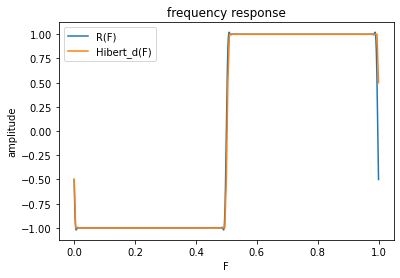
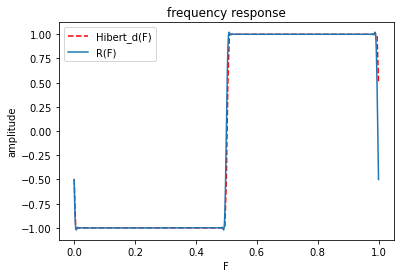
upload file

Changed region(s): [[0.18, 0.3453, 0.57, 0.8345], [0.57, 0.1151, 0.96, 0.3165], [0.15, 0.1151, 0.39, 0.2014]]

diff --git a/hw2/hw2_R10945004.py b/hw2/hw2_R10945004.py
@@ -62,9 +62,10 @@ RF = 0
 for n in range(len(rn)):
     RF += rn[n]*np.exp(-2j*np.pi*F*(n-k-1))
 RF = np.array(RF)
+
+plt.plot(N,H_d.imag,'r--')
 plt.plot(F,RF.imag)
-plt.plot(N,H_d.imag)
-plt.legend(['R(F)','Hibert_d(F)'])
+plt.legend(['Hibert_d(F)','R(F)'])
 plt.title('frequency response')
 plt.xlabel('F')
 plt.ylabel('amplitude')
